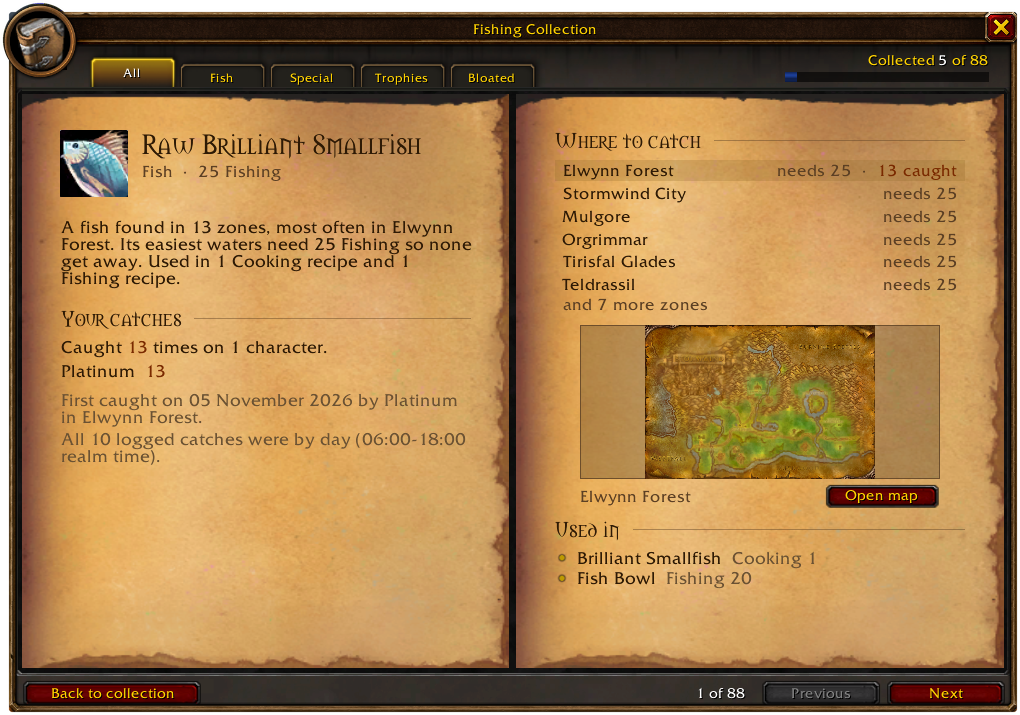
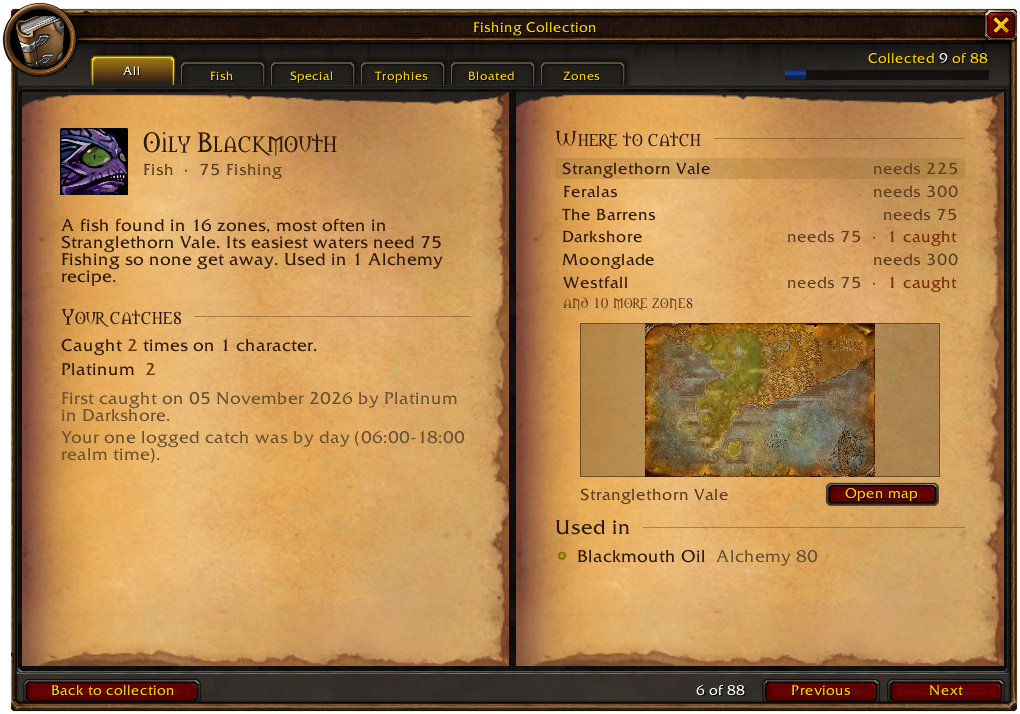
Update the README screenshots for 0.5.0
Add the Zones tab and retake the stats window and fish page.

diff --git a/README.md b/README.md
@@ -41,6 +41,8 @@ Prefer the mouse? **Double right-click** the water with a pole equipped to cast,
 - **Remembered pools:** hover over a fishing pool with your pole on and cast, and the spot you fished it from is marked on the book's zone maps.
 
 ### 🗺 Where to fish next
+![The Zones tab: every zone by the Fishing skill it needs, checked against yours](https://raw.githubusercontent.com/rynmon/OneCast/main/assets/screenshots/zones.png)
+
 - **Zones tab:** every zone's fishing level at a glance, checked against your skill, with how many of its fish you've caught. Click a zone to see its fish.
 - **Is this zone right for you?** A skill bar shows your Fishing skill, lure bonus included, and whether fish will get away here.
 - Short of a zone's level? OneCast names a lure in your bags that would cover it.
